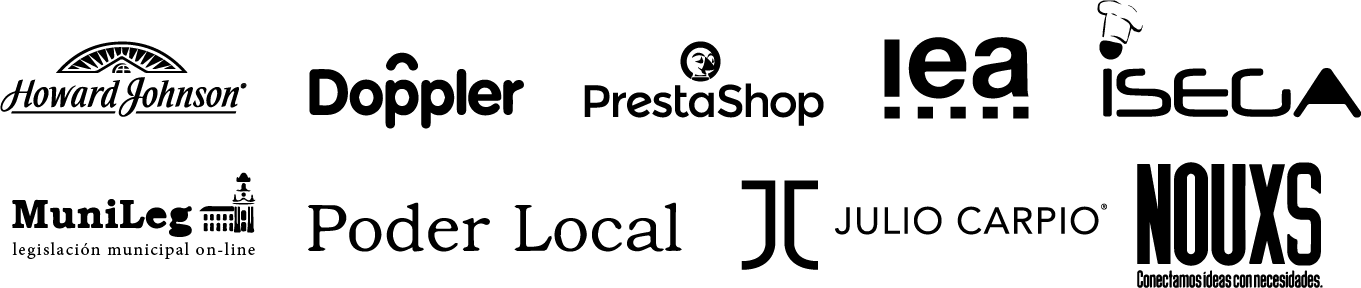
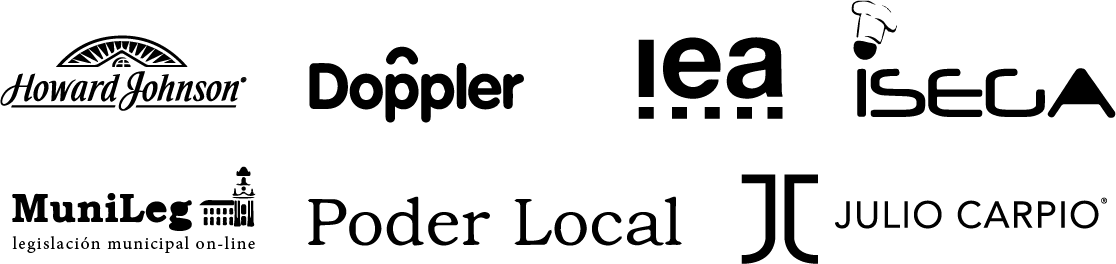
botones mercadopago

Changed region(s): [[0.0, 0.5455, 1.0, 1.0], [0.0, 0.0606, 1.0, 0.4545], [0.7616, 0.0, 0.8226, 0.0909]]

diff --git a/index.html b/index.html
@@ -138,9 +138,6 @@
                         <div class="swiper-slide">
                             <a href="https://www.fromdoppler.com" target="_blank"><img class="swiper-clients-img" src="img/sponsors/doppler.svg" alt="Doppler"></a>
                         </div>
-                        <div class="swiper-slide">
-                            <a href="https://www.prestashop.com" target="_blank"><img class="swiper-clients-img" src="img/sponsors/prestashop.svg" alt="PrestaShop"></a>
-                        </div>
 						<div class="swiper-slide">
                             <a href="https://www.institutoiea.edu.ar/" target="_blank"><img class="swiper-clients-img swiper-small" src="img/sponsors/iea.svg" alt="IEA"></a>
                         </div>
@@ -180,9 +177,6 @@
                         </div>
                         <div class="swiper-slide">
                             <a href="https://www.fromdoppler.com" target="_blank"><img class="swiper-clients-img" src="img/sponsors/doppler.svg" alt="Doppler"></a>
-                        </div>
-                        <div class="swiper-slide">
-                            <a href="https://www.prestashop.com" target="_blank"><img class="swiper-clients-img" src="img/sponsors/prestashop.svg" alt="PrestaShop"></a>
                         </div>
 						<div class="swiper-slide">
                             <a href="https://www.institutoiea.edu.ar/" target="_blank"><img class="swiper-clients-img swiper-small" src="img/sponsors/iea.svg" alt="IEA"></a>
